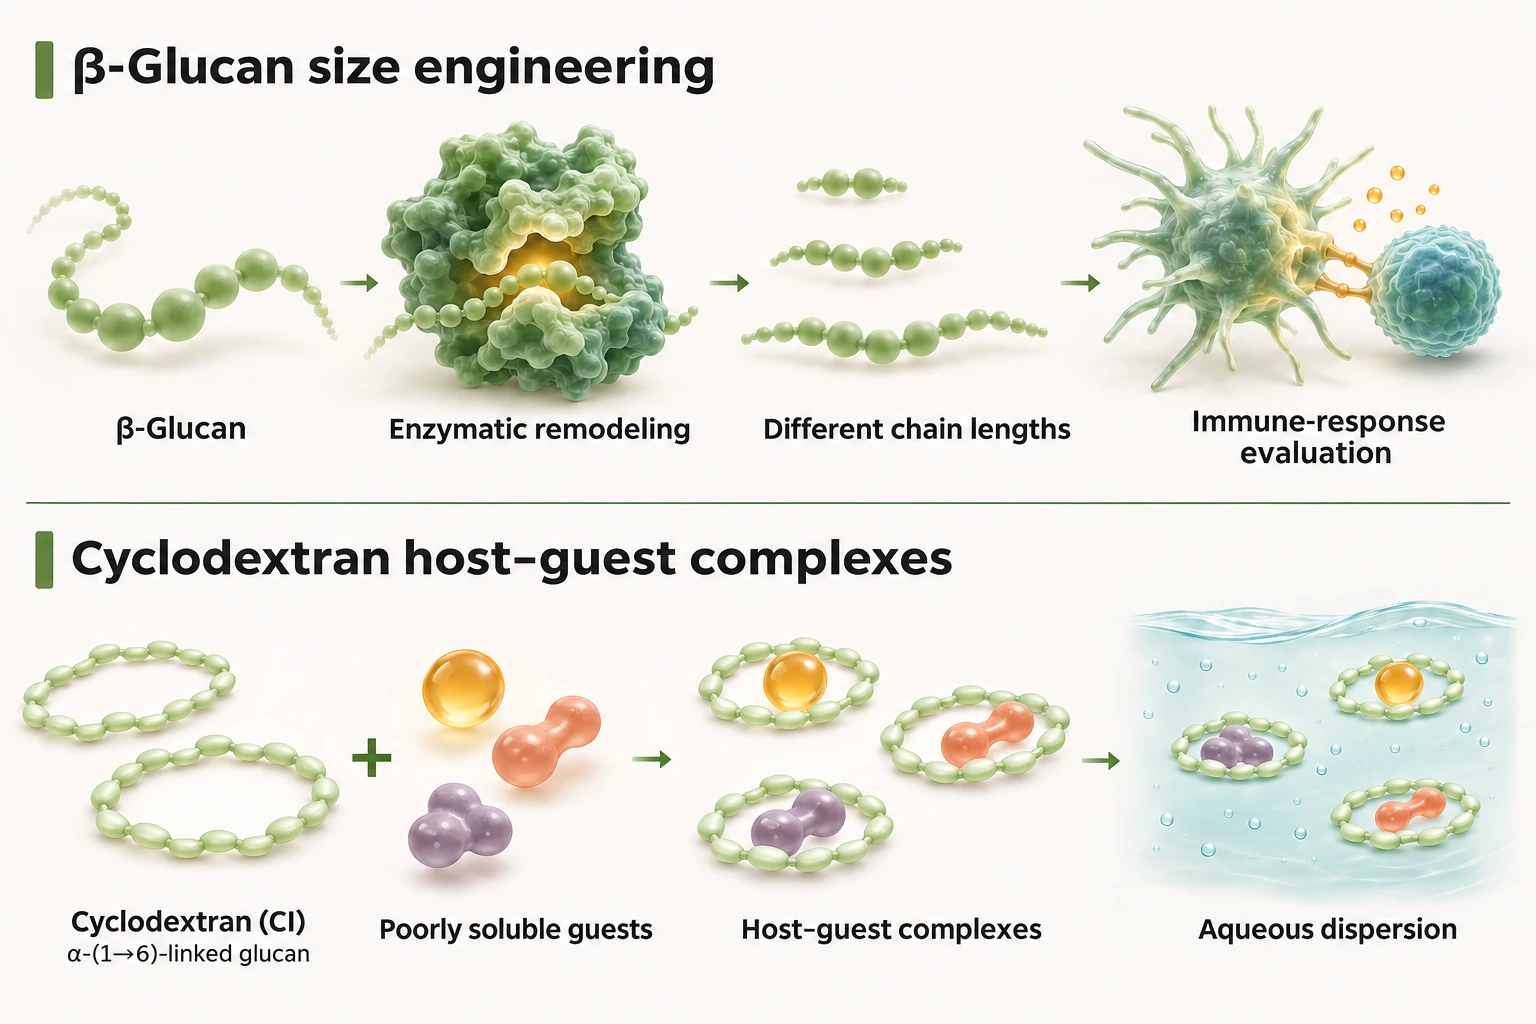
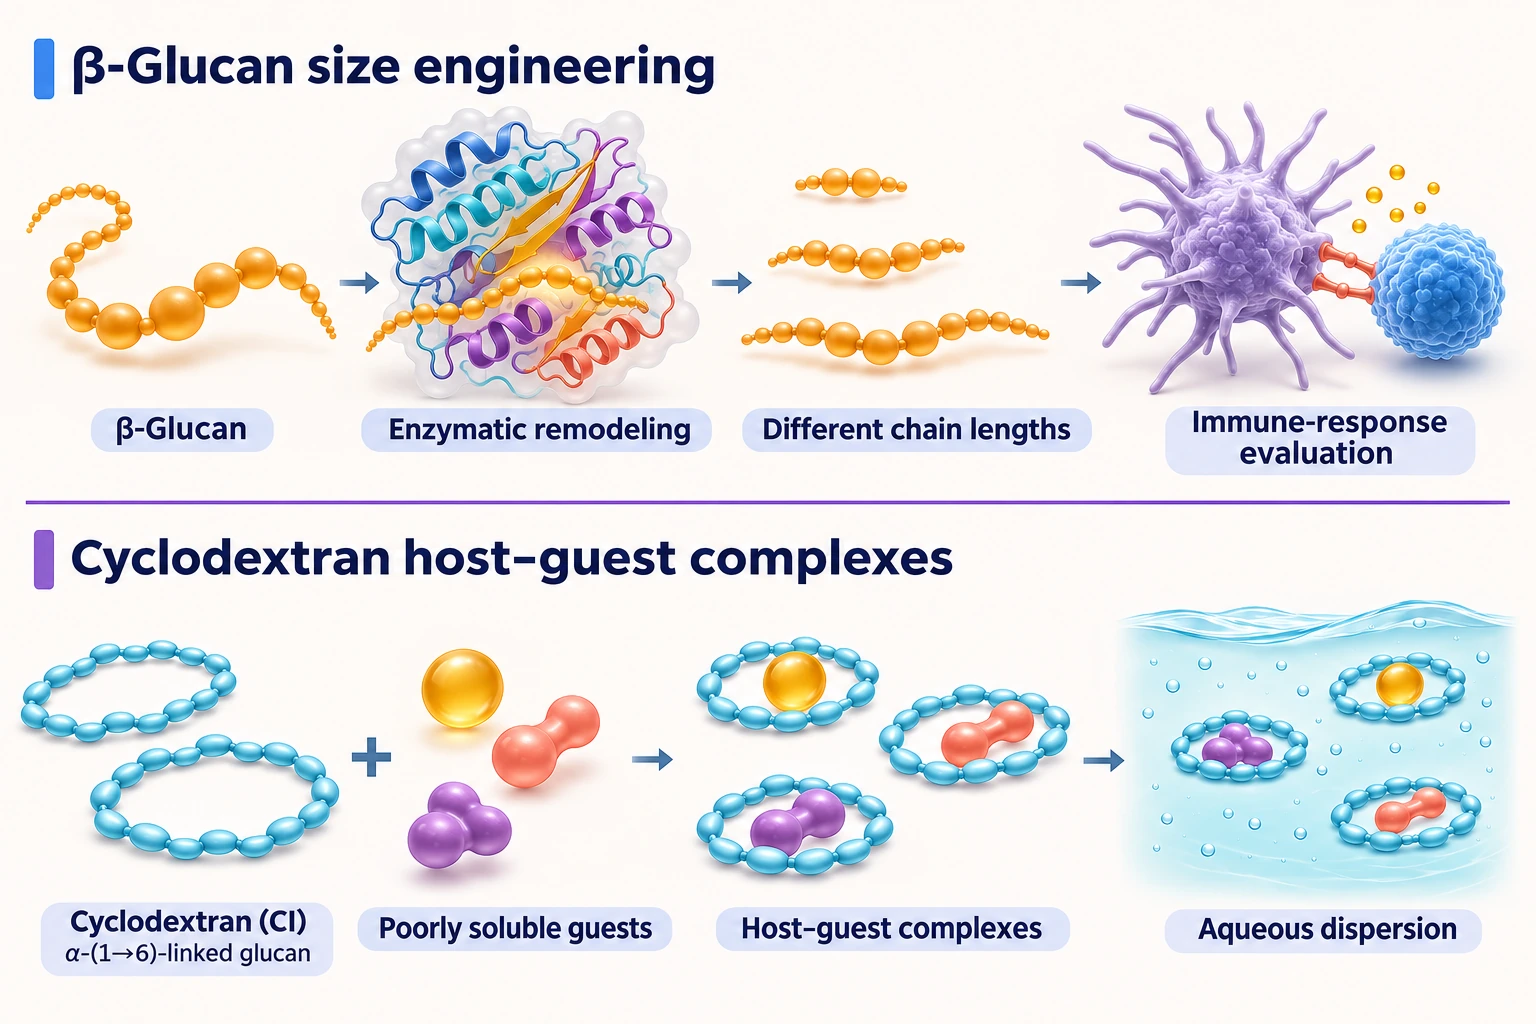
Refresh research illustrations on the Research page and Home carousel

diff --git a/index.html b/index.html
@@ -189,13 +189,13 @@
               <div class="research-carousel" id="research-carousel" role="region" aria-roledescription="캐러셀" aria-label="세 가지 연구 분야 소개">
                 <div class="carousel-slides" id="research-carousel-slides" aria-live="off">
                   <figure class="carousel-slide" id="research-slide-1" role="group" aria-roledescription="슬라이드" aria-label="3개 중 1번째: 스테비올 배당체의 효소 전환" data-caption="스테비올 배당체의 효소 전환">
-                    <img src="assets/research-steviol-glycosides.webp" alt="스테비아 유래 소재가 효소 활성 부위에 결합하고 스테비올 배당체로 전환되는 연구 과정 개념도" width="1536" height="1024" fetchpriority="high" decoding="async">
+                    <img src="assets/research-steviol-glycosides.webp?v=0f2c49e3b07c" alt="스테비올 배당체가 효소에 결합하고 공여체에서 당이 전이되어 새로운 배당체가 생성되는 과정을 보여주는 개념도" width="1536" height="1024" fetchpriority="high" decoding="async">
                   </figure>
                   <figure class="carousel-slide" id="research-slide-2" role="group" aria-roledescription="슬라이드" aria-label="3개 중 2번째: 베타글루칸·사이클로덱스트란 소재" data-caption="베타글루칸·사이클로덱스트란 소재" hidden aria-hidden="true">
-                    <img src="assets/research-beta-glucan-cyclodextran.webp" alt="베타글루칸의 생물전환과 사이클로덱스트란을 이용한 난용성 소재 가용화 연구 개념도" width="1536" height="1024" loading="eager" fetchpriority="low" decoding="async">
+                    <img src="assets/research-beta-glucan-cyclodextran.webp?v=0f0ddfcc3fe9" alt="베타글루칸의 사슬 길이 조절과 면역반응 평가, 사이클로덱스트란의 난용성 물질 포집과 수분산 과정을 보여주는 개념도" width="1536" height="1024" loading="eager" fetchpriority="low" decoding="async">
                   </figure>
                   <figure class="carousel-slide" id="research-slide-3" role="group" aria-roledescription="슬라이드" aria-label="3개 중 3번째: 구조 기반 효소 설계" data-caption="구조 기반 효소 설계" hidden aria-hidden="true">
-                    <img src="assets/research-enzyme-design.webp" alt="단백질 도킹, 예측 결합 구조 분석, 유전자 변이 설계와 효소 변이체 제작으로 이어지는 연구 과정 개념도" width="1536" height="1024" loading="eager" fetchpriority="low" decoding="async">
+                    <img src="assets/research-enzyme-design.webp?v=902600918eb4" alt="도킹 구조에서 결합 부위와 변이 후보를 찾고 유전자를 변형해 효소 변이체를 제작하는 과정을 보여주는 개념도" width="1536" height="1024" loading="eager" fetchpriority="low" decoding="async">
                   </figure>
                 </div>
                 <div class="carousel-caption" aria-live="off"><p class="carousel-caption-title" data-carousel-caption>스테비올 배당체의 효소 전환</p><span class="carousel-count" data-carousel-count>01 / 03</span></div>
@@ -345,13 +345,13 @@
       <div class="page-banner"><div class="shell"><h1>Research</h1><p>Our research areas</p></div></div>
       <section class="page-content shell"><div class="page-intro"><p class="eyebrow">Science for better food</p><h2>발효와 효소공학으로<br>확장하는 식품의 가능성</h2><p>미생물과 효소를 활용한 생물전환으로 저칼로리 감미소재를 개발하고, 식품소재의 기능성과 수용성을 높이는 연구를 수행합니다. 효소의 발굴·설계부터 소재 전환과 응용까지, 세 가지 연구 분야를 유기적으로 연결합니다.</p></div>
         <article class="research-row"><span class="number">01</span><h3>Carbohydrate<br>Enzyme Engineering<small>탄수화물 효소공학</small></h3><div class="research-details"><p>미생물 효소를 이용해 당과 배당소재를 생합성·전환하고, 탄수화물 구조를 리모델링하여 감미 특성, 수용성 및 기능성을 개선하는 연구를 진행합니다.</p><h4>Research interests</h4><ul><li><strong>저칼로리 고감미소재:</strong> 미생물 효소를 활용한 천연 감미소재 개발</li><li><strong>레바우디오사이드 E:</strong> 천연 고감미소재의 생합성 및 응용</li><li><strong>탄수화물 리모델링:</strong> 구조 변환을 통한 수용성 향상과 고기능성화</li></ul></div>
-          <figure class="research-figure"><img src="assets/research-steviol-glycosides.webp" alt="스테비아 유래 소재가 효소 활성 부위에 결합하고 스테비올 배당체로 전환되는 연구 과정 개념도" width="1536" height="1024" loading="lazy" decoding="async"><figcaption><span>스테비올 배당체의 효소 전환 · 연구 개념도</span></figcaption></figure>
+          <figure class="research-figure"><img src="assets/research-steviol-glycosides.webp?v=0f2c49e3b07c" alt="스테비올 배당체가 효소에 결합하고 공여체에서 당이 전이되어 새로운 배당체가 생성되는 과정을 보여주는 개념도" width="1536" height="1024" loading="lazy" decoding="async"><figcaption><span>스테비올 배당체의 효소 전환 · 연구 개념도</span></figcaption></figure>
         </article>
         <article class="research-row"><span class="number">02</span><h3>Functional Food<br>Ingredients<small>기능성 식품 소재 개발</small></h3><div class="research-details"><p>생물전환을 통한 식품소재의 고부가가치화와 난용성 소재의 가용화를 연구하며, 기능성 식품 및 식의약소재로의 응용과 산업화를 지향합니다.</p><h4>Research interests</h4><ul><li><strong>베타글루칸:</strong> 생물전환을 통한 고기능성 소재 개발</li><li><strong>김 부산물:</strong> 식의약소재 개발을 통한 자원 활용과 고부가가치화</li><li><strong>난용성 소재 가용화:</strong> 환상올리고당과 배당소재를 이용한 수용성 향상 및 응용</li></ul></div>
-          <figure class="research-figure"><img src="assets/research-beta-glucan-cyclodextran.webp" alt="베타글루칸의 생물전환과 사이클로덱스트란을 이용한 난용성 소재 가용화 연구 개념도" width="1536" height="1024" loading="lazy" decoding="async"><figcaption><span>베타글루칸·사이클로덱스트란 소재 · 연구 개념도</span></figcaption></figure>
+          <figure class="research-figure"><img src="assets/research-beta-glucan-cyclodextran.webp?v=0f0ddfcc3fe9" alt="베타글루칸의 사슬 길이 조절과 면역반응 평가, 사이클로덱스트란의 난용성 물질 포집과 수분산 과정을 보여주는 개념도" width="1536" height="1024" loading="lazy" decoding="async"><figcaption><span>베타글루칸·사이클로덱스트란 소재 · 연구 개념도</span></figcaption></figure>
         </article>
         <article class="research-row"><span class="number">03</span><h3>Structure-based<br>Enzyme Design<small>단백질 구조 기반 효소 설계</small></h3><div class="research-details"><p>식품소재의 생물전환에 활용할 미생물·효소 발굴을 구조 기반 효소 설계와 연결합니다. 효소의 구조와 기능을 이해하고, 감미소재 생산과 기능성 탄수화물 전환에 활용할 효소를 연구합니다.</p><h4>Enzyme targets &amp; applications</h4><ul><li><strong>베타글루칸 관련 효소:</strong> 베타글루칸 합성 및 분해에 관여하는 효소</li><li><strong>다당류 전환 효소:</strong> 푸코이단 분해효소와 덱스트란 합성·분해효소</li><li><strong>환상올리고당 관련 효소:</strong> 사이클로덱스트란 합성효소와 소재 응용의 연계</li></ul></div>
-          <figure class="research-figure"><img src="assets/research-enzyme-design.webp" alt="단백질 도킹, 예측 결합 구조 분석, 유전자 변이 설계와 효소 변이체 제작으로 이어지는 연구 과정 개념도" width="1536" height="1024" loading="lazy" decoding="async"><figcaption><span>구조 기반 효소 설계 · 연구 개념도</span></figcaption></figure>
+          <figure class="research-figure"><img src="assets/research-enzyme-design.webp?v=902600918eb4" alt="도킹 구조에서 결합 부위와 변이 후보를 찾고 유전자를 변형해 효소 변이체를 제작하는 과정을 보여주는 개념도" width="1536" height="1024" loading="lazy" decoding="async"><figcaption><span>구조 기반 효소 설계 · 연구 개념도</span></figcaption></figure>
         </article>
         <p class="research-overview-note">연구 분야 및 관심사에 관한 자세한 내용은 <a href="https://foodsci.jnu.ac.kr/foodsci/16737/subview.do?enc=Zm5jdDF8QEB8JTJGcHJvZiUyRmZvb2RzY2klMkYxMzUlMkYxNTM4JTJGdmlldy5kbyUzRg%3D%3D" target="_blank" rel="noopener noreferrer">전남대학교 공식 교수 소개 ↗</a>에서도 확인할 수 있습니다.</p>
       </section>
